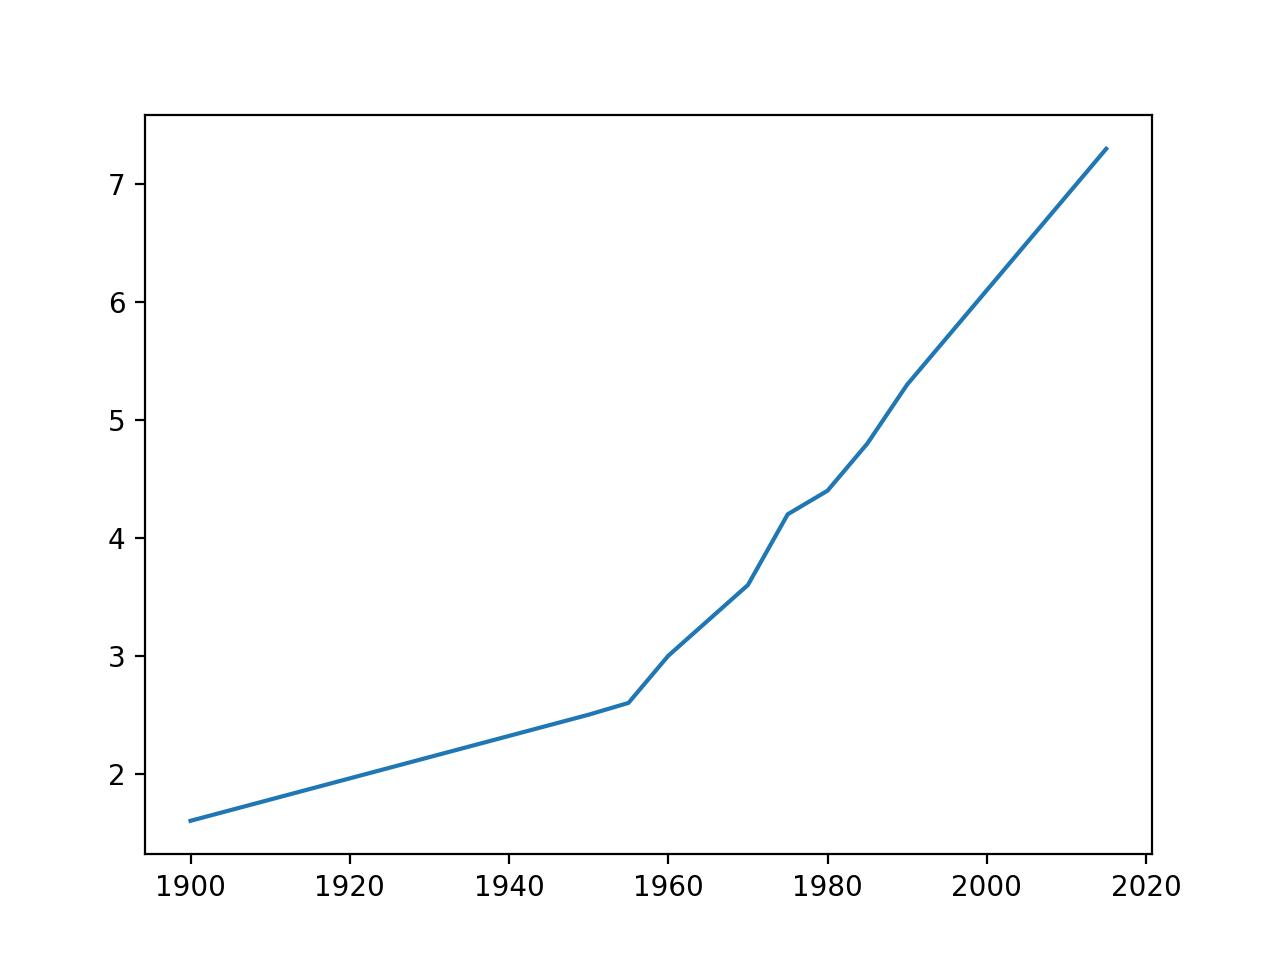
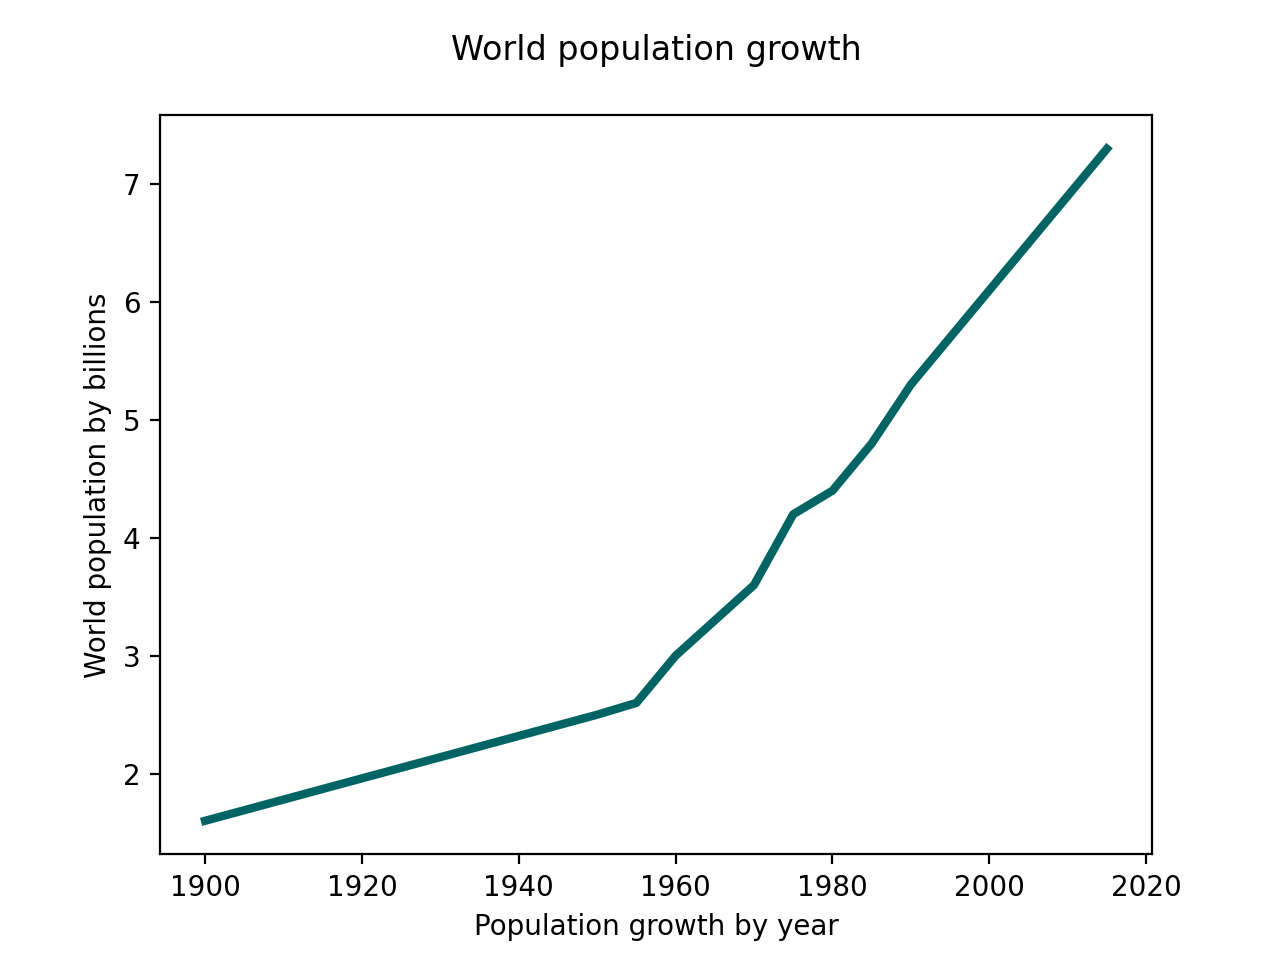
Building our very first graph

diff --git a/css/main.css b/css/main.css
@@ -1,0 +1,21 @@
+/* quick reset*/
+
+* {
+	border:none;
+	padding: 0;
+	margin: 0;
+}
+
+body {
+	font-size: 16px;
+	font-family: 'Arial', 'Helvetica', sans-serif;
+}
+
+.hidden {
+	display: none;
+}
+
+.data-graphic {
+	border: thin dashed blue;
+	width: 30%;
+}

diff --git a/index.html b/index.html
@@ -4,6 +4,7 @@
 	<meta charset="utf-8" />
 	<meta name="viewport" content="width=devide-width, initial-scale:1.0" />
 	<title>Olympic Data Analysis</title>
+	<link rel="stylesheet" type="text/css" href="css/main.css">
 
 </head>
 <body>

diff --git a/data/mapper.py b/data/mapper.py
@@ -4,7 +4,15 @@ years = [1900, 1950, 1955, 1960, 1965, 1970, 1975, 1980, 1985, 1990, 1995, 2000,
 pops = [1.6, 2.5, 2.6, 3.0, 3.3, 3.6, 4.2, 4.4, 4.8, 5.3, 5.7, 6.1, 6.5, 6.9, 7.3]
 
 # plot our chart with data above
-plt.plot(years, pops)
+plt.plot(years, pops, color=(0/255, 100/255, 100/255), linewidth=3.0)
+
+# label on the left hand side
+plt.ylabel("World population by billions")
+#label on the bottom of the cart
+plt.xlabel("Population growth by year")
+
+#add a title to the chart
+plt.title("World population growth", pad="20")
 
 # run the show method (this lives inside the pyplot package)
 # this will generate a graph in a new window
